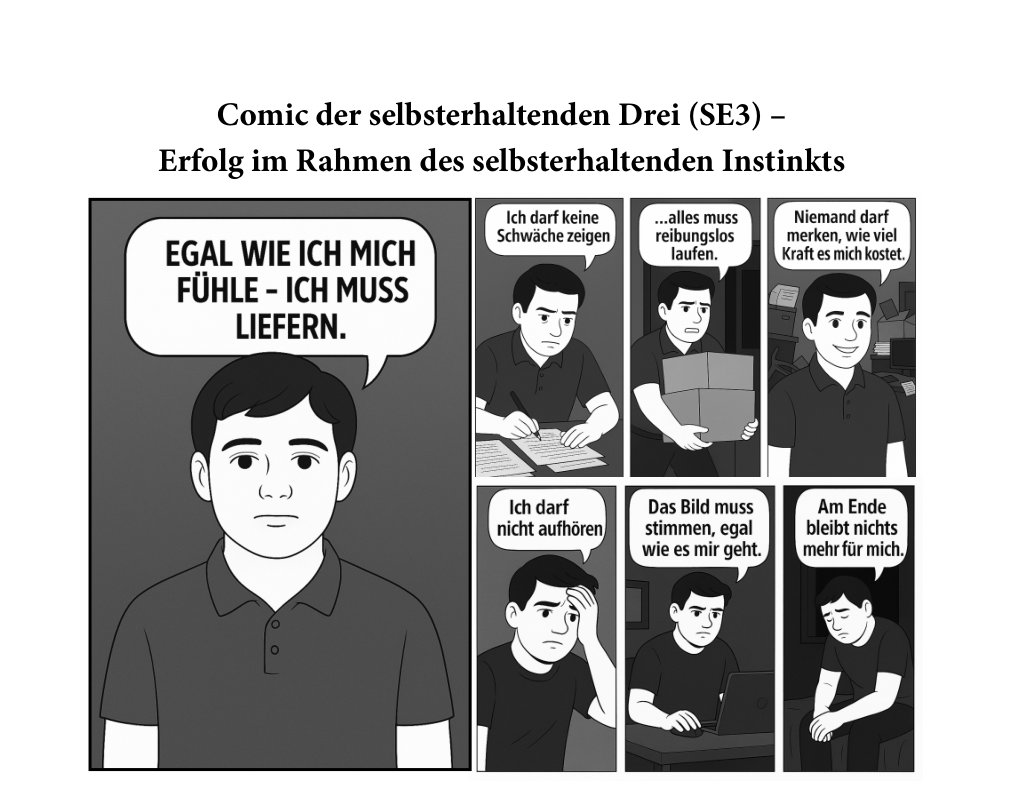
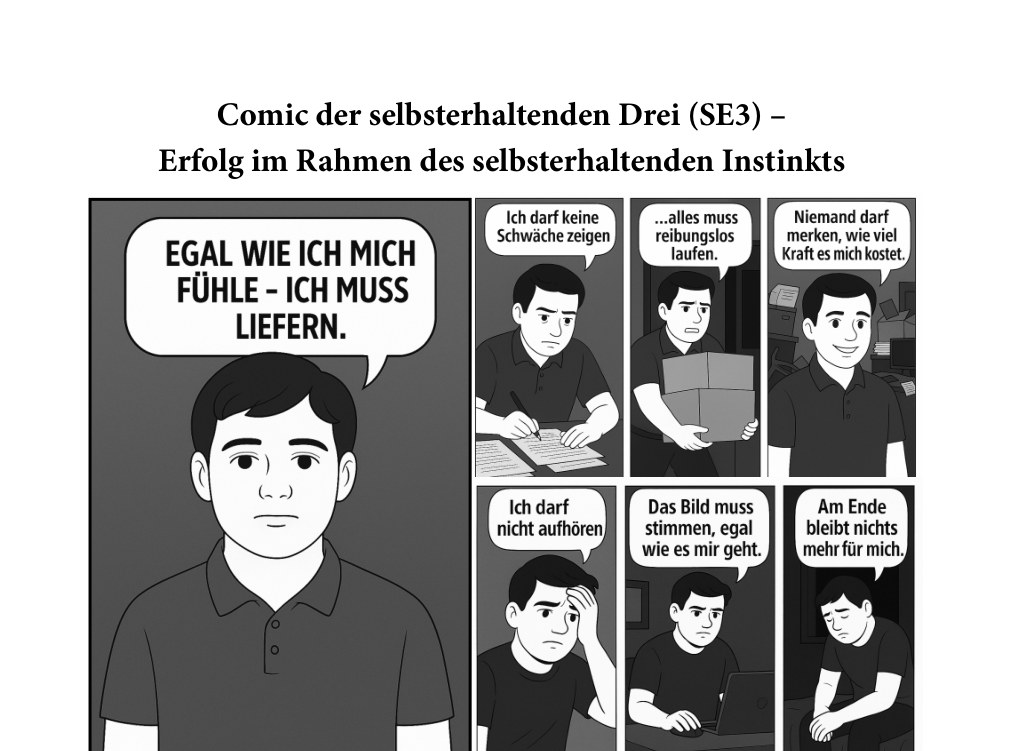
Comics: Seitenzahl entfernt, gleiche Größe, Lightbox beim Antippen
- Alle 27 Comics neu extrahiert: exakt 1020x751px, keine Seitenzahl mehr
- Antippen öffnet Comic fullscreen (schwarzes Overlay, Klick zum Schließen)
- Galerie auf Beziehungen-Seite: Zoom-in statt Navigation zur Subtyp-Seite

Changed region(s): [[0.0608, 0.1225, 0.9118, 1.0]]

diff --git a/app.js b/app.js
@@ -891,10 +891,10 @@ function subtypePage(code) {
       <h1 style="color:${tc}">${entry.title}</h1>
       <p class="lead-small">${entry.coreSentence}</p>
       <div style="margin-top:1.25rem; border-radius:0.5rem; overflow:hidden; border:1px solid var(--line); cursor:zoom-in;"
-           onclick="this.classList.toggle('comic-expanded')" title="Klicken zum Vergrößern">
+           data-comic-open="${code.toLowerCase()}" title="Antippen zum Vergrößern">
         <img src="assets/comics/${code.toLowerCase()}.jpg"
              alt="Comic: ${entry.code} – ${entry.title}"
-             style="width:100%; display:block; filter:contrast(1.05);" />
+             style="width:100%; display:block; filter:contrast(1.05); pointer-events:none;" />
       </div>
     </section>
     ${details.meinKompass ? meinKompassSection(details.meinKompass, sp) : ""}
@@ -1752,6 +1752,17 @@ function showElementModal(elementName) {
 }
 
 function bindEvents() {
+  document.querySelectorAll("[data-comic-open]").forEach(el => {
+    el.addEventListener("click", () => {
+      const code = el.dataset.comicOpen;
+      const lb = document.createElement("div");
+      lb.style.cssText = "position:fixed;inset:0;z-index:9999;background:rgba(0,0,0,0.92);display:flex;align-items:center;justify-content:center;cursor:zoom-out;padding:1rem;";
+      lb.innerHTML = `<img src="assets/comics/${code}.jpg" style="max-width:100%;max-height:100vh;border-radius:0.5rem;box-shadow:0 8px 40px rgba(0,0,0,0.6);filter:contrast(1.08);" />`;
+      lb.addEventListener("click", () => lb.remove());
+      document.body.appendChild(lb);
+    });
+  });
+
   document.querySelectorAll("[data-bez-code]").forEach(btn => {
     btn.addEventListener("click", () => {
       const code = btn.dataset.bezCode;
@@ -3054,12 +3065,12 @@ function beziehungenPage() {
       <p style="font-size:0.88rem; color:var(--muted); margin-bottom:1rem;">In den Bildern schimmern die tiefen Wünsche, Ängste und Fluchten der 27 Subtypen durch – manchmal zart, manchmal drastisch. Klicke auf einen Comic, um ihn zu vergrößern.</p>
       <div style="display:grid; grid-template-columns:repeat(3,1fr); gap:0.6rem; margin-bottom:2rem;">
         ${["SE1","SO1","SX1","SE2","SO2","SX2","SE3","SO3","SX3","SE4","SO4","SX4","SE5","SO5","SX5","SE6","SO6","SX6","SE7","SO7","SX7","SE8","SO8","SX8","SE9","SO9","SX9"].map(code => `
-        <div style="border-radius:0.4rem; overflow:hidden; border:1px solid var(--line); background:var(--paper); cursor:pointer;"
-             onclick="window.location.hash='subtype/${code.toLowerCase()}'"
-             title="${code} – zum Subtyp-Profil">
+        <div style="border-radius:0.4rem; overflow:hidden; border:1px solid var(--line); background:var(--paper); cursor:zoom-in;"
+             data-comic-open="${code.toLowerCase()}"
+             title="${code} – antippen zum Vergrößern">
           <img src="assets/comics/${code.toLowerCase()}.jpg"
                alt="Comic ${code}"
-               style="width:100%; display:block; filter:contrast(1.05);" />
+               style="width:100%; display:block; filter:contrast(1.05); pointer-events:none;" />
           <div style="text-align:center; font-size:0.72rem; font-weight:700; color:var(--copper); padding:0.3rem 0;">${code}</div>
         </div>`).join("")}
       </div>

diff --git a/index.html b/index.html
@@ -12,6 +12,6 @@
   </head>
   <body>
     <div id="app"></div>
-    <script type="module" src="app.js?v=2026-06-24-bez-v3"></script>
+    <script type="module" src="app.js?v=2026-06-24-bez-v4"></script>
   </body>
 </html>
